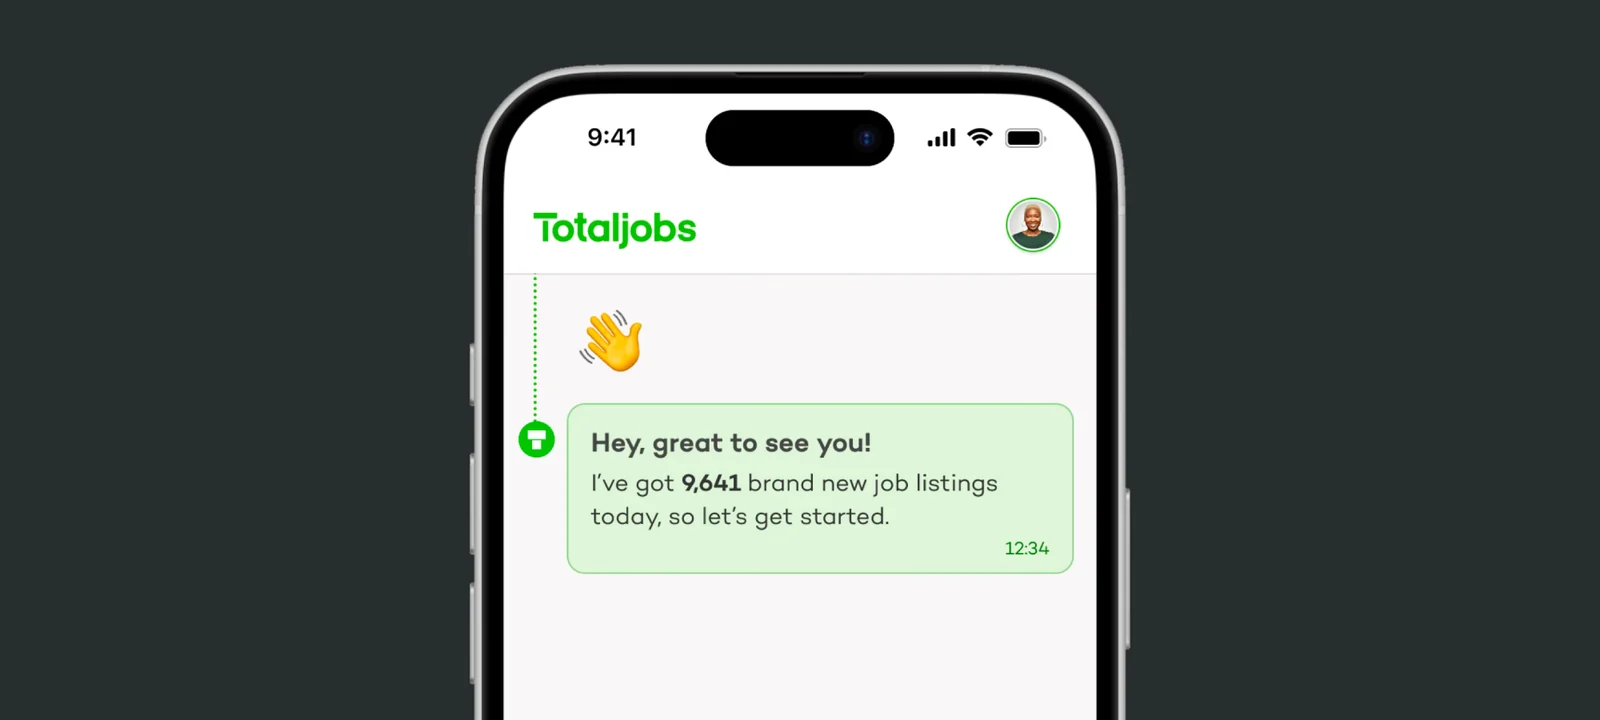
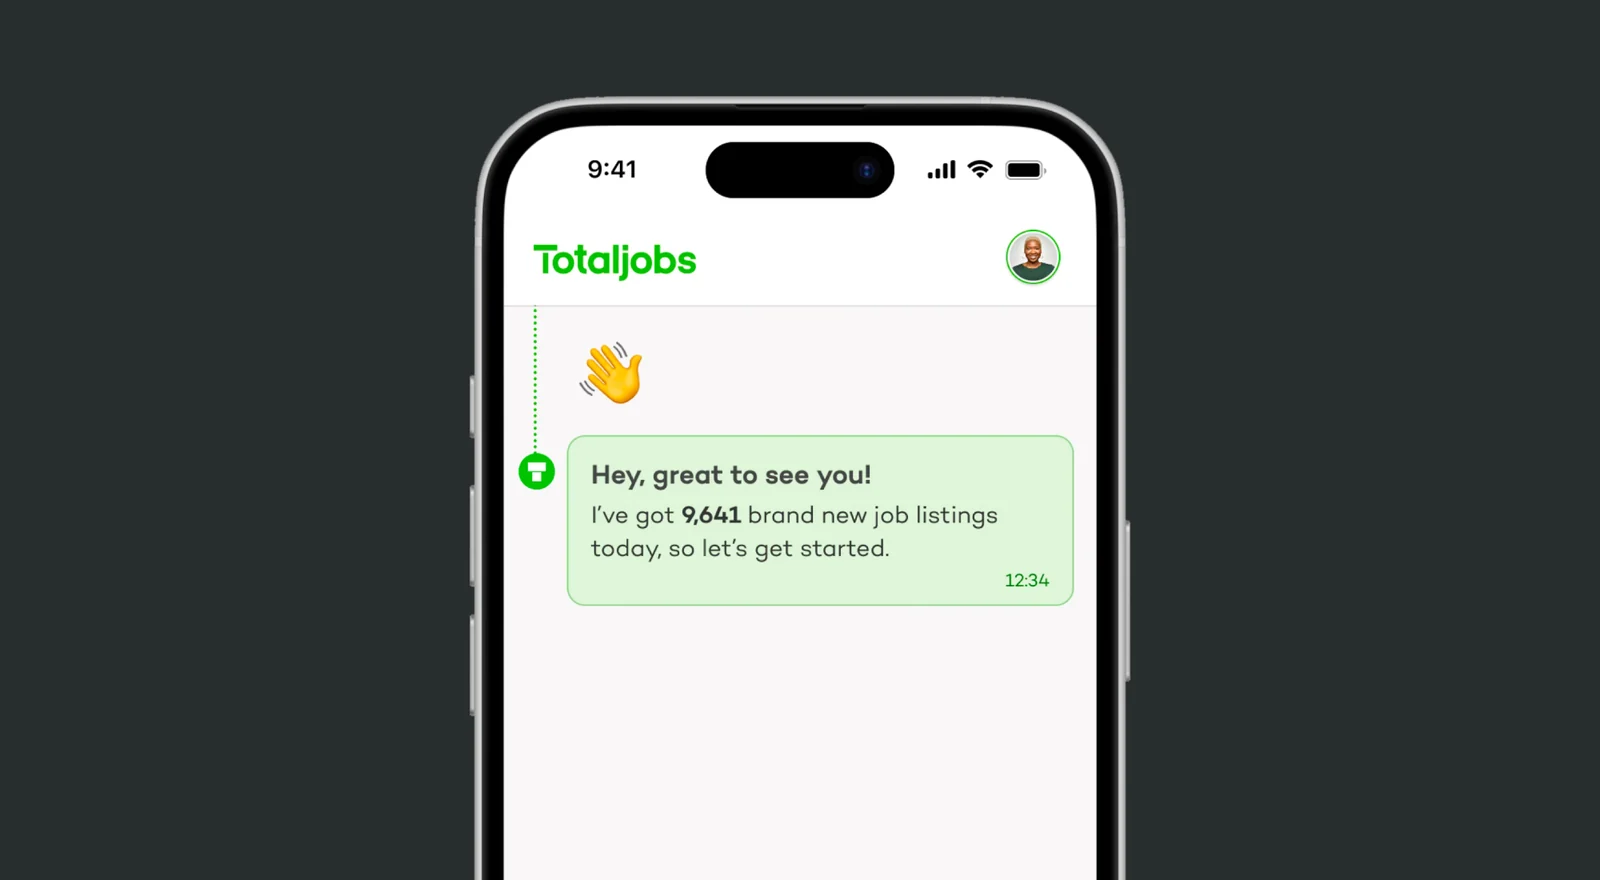
Update Totaljobs images to 2000x1100 format

diff --git a/index.html b/index.html
@@ -660,7 +660,7 @@ ul,ol{margin:0;padding:0;list-style:none}
     </dl>
   </div>
   <div class="wrap">
-    <figure class="fig"><button data-cap="Conversational welcome"><img class="img-light" src="img/totaljobs-1.webp" width="1600" height="720" alt="Totaljobs app greeting the user with new job listings"><img class="img-dark" src="img/totaljobs-1-dark.webp" width="1600" height="720" alt="Totaljobs app greeting the user with new job listings"></button></figure>
+    <figure class="fig"><button data-cap="Conversational welcome"><img class="img-light" src="img/totaljobs-1.webp" width="1600" height="880" alt="Totaljobs app greeting the user with new job listings"><img class="img-dark" src="img/totaljobs-1-dark.webp" width="1600" height="880" alt="Totaljobs app greeting the user with new job listings"></button></figure>
     <section class="chapter split">
       <p class="t-label t-muted">01 · Concept</p>
       <div>
@@ -669,7 +669,7 @@ ul,ol{margin:0;padding:0;list-style:none}
       </div>
     </section>
     <div class="chapter figs" style="padding-top:var(--s-l)">
-      <figure class="fig c12"><button data-cap="Conversational onboarding and user guidance"><img class="img-light" src="img/totaljobs-2.webp" width="1600" height="720" alt="Three phone screens of a conversational onboarding flow" loading="lazy"><img class="img-dark" src="img/totaljobs-2-dark.webp" width="1600" height="720" alt="Three phone screens of a conversational onboarding flow" loading="lazy"></button><figcaption class="t-label">Conversational onboarding &amp; user guidance</figcaption></figure>
+      <figure class="fig c12"><button data-cap="Conversational onboarding and user guidance"><img class="img-light" src="img/totaljobs-2.webp" width="1600" height="880" alt="Three phone screens of a conversational onboarding flow" loading="lazy"><img class="img-dark" src="img/totaljobs-2-dark.webp" width="1600" height="880" alt="Three phone screens of a conversational onboarding flow" loading="lazy"></button><figcaption class="t-label">Conversational onboarding &amp; user guidance</figcaption></figure>
     </div>
     <section class="chapter split">
       <p class="t-label t-muted">02 · Job cards</p>
@@ -679,7 +679,7 @@ ul,ol{margin:0;padding:0;list-style:none}
       </div>
     </section>
     <div class="chapter figs" style="padding-top:var(--s-l)">
-      <figure class="fig c12"><button data-cap="Job cards with just the right information"><img class="img-light" src="img/totaljobs-3.webp" width="1600" height="720" alt="Three phone screens of focused job cards" loading="lazy"><img class="img-dark" src="img/totaljobs-3-dark.webp" width="1600" height="720" alt="Three phone screens of focused job cards" loading="lazy"></button><figcaption class="t-label">Focused job cards, filtering &amp; saving</figcaption></figure>
+      <figure class="fig c12"><button data-cap="Job cards with just the right information"><img class="img-light" src="img/totaljobs-3.webp" width="1600" height="880" alt="Three phone screens of focused job cards" loading="lazy"><img class="img-dark" src="img/totaljobs-3-dark.webp" width="1600" height="880" alt="Three phone screens of focused job cards" loading="lazy"></button><figcaption class="t-label">Focused job cards, filtering &amp; saving</figcaption></figure>
     </div>
     <a class="next" href="#hintsa"><p class="t-label t-muted">Next case · Hintsa Performance</p><p class="t-display"><span>Scalable performance coaching</span><span class="go">→</span></p></a>
   </div>
